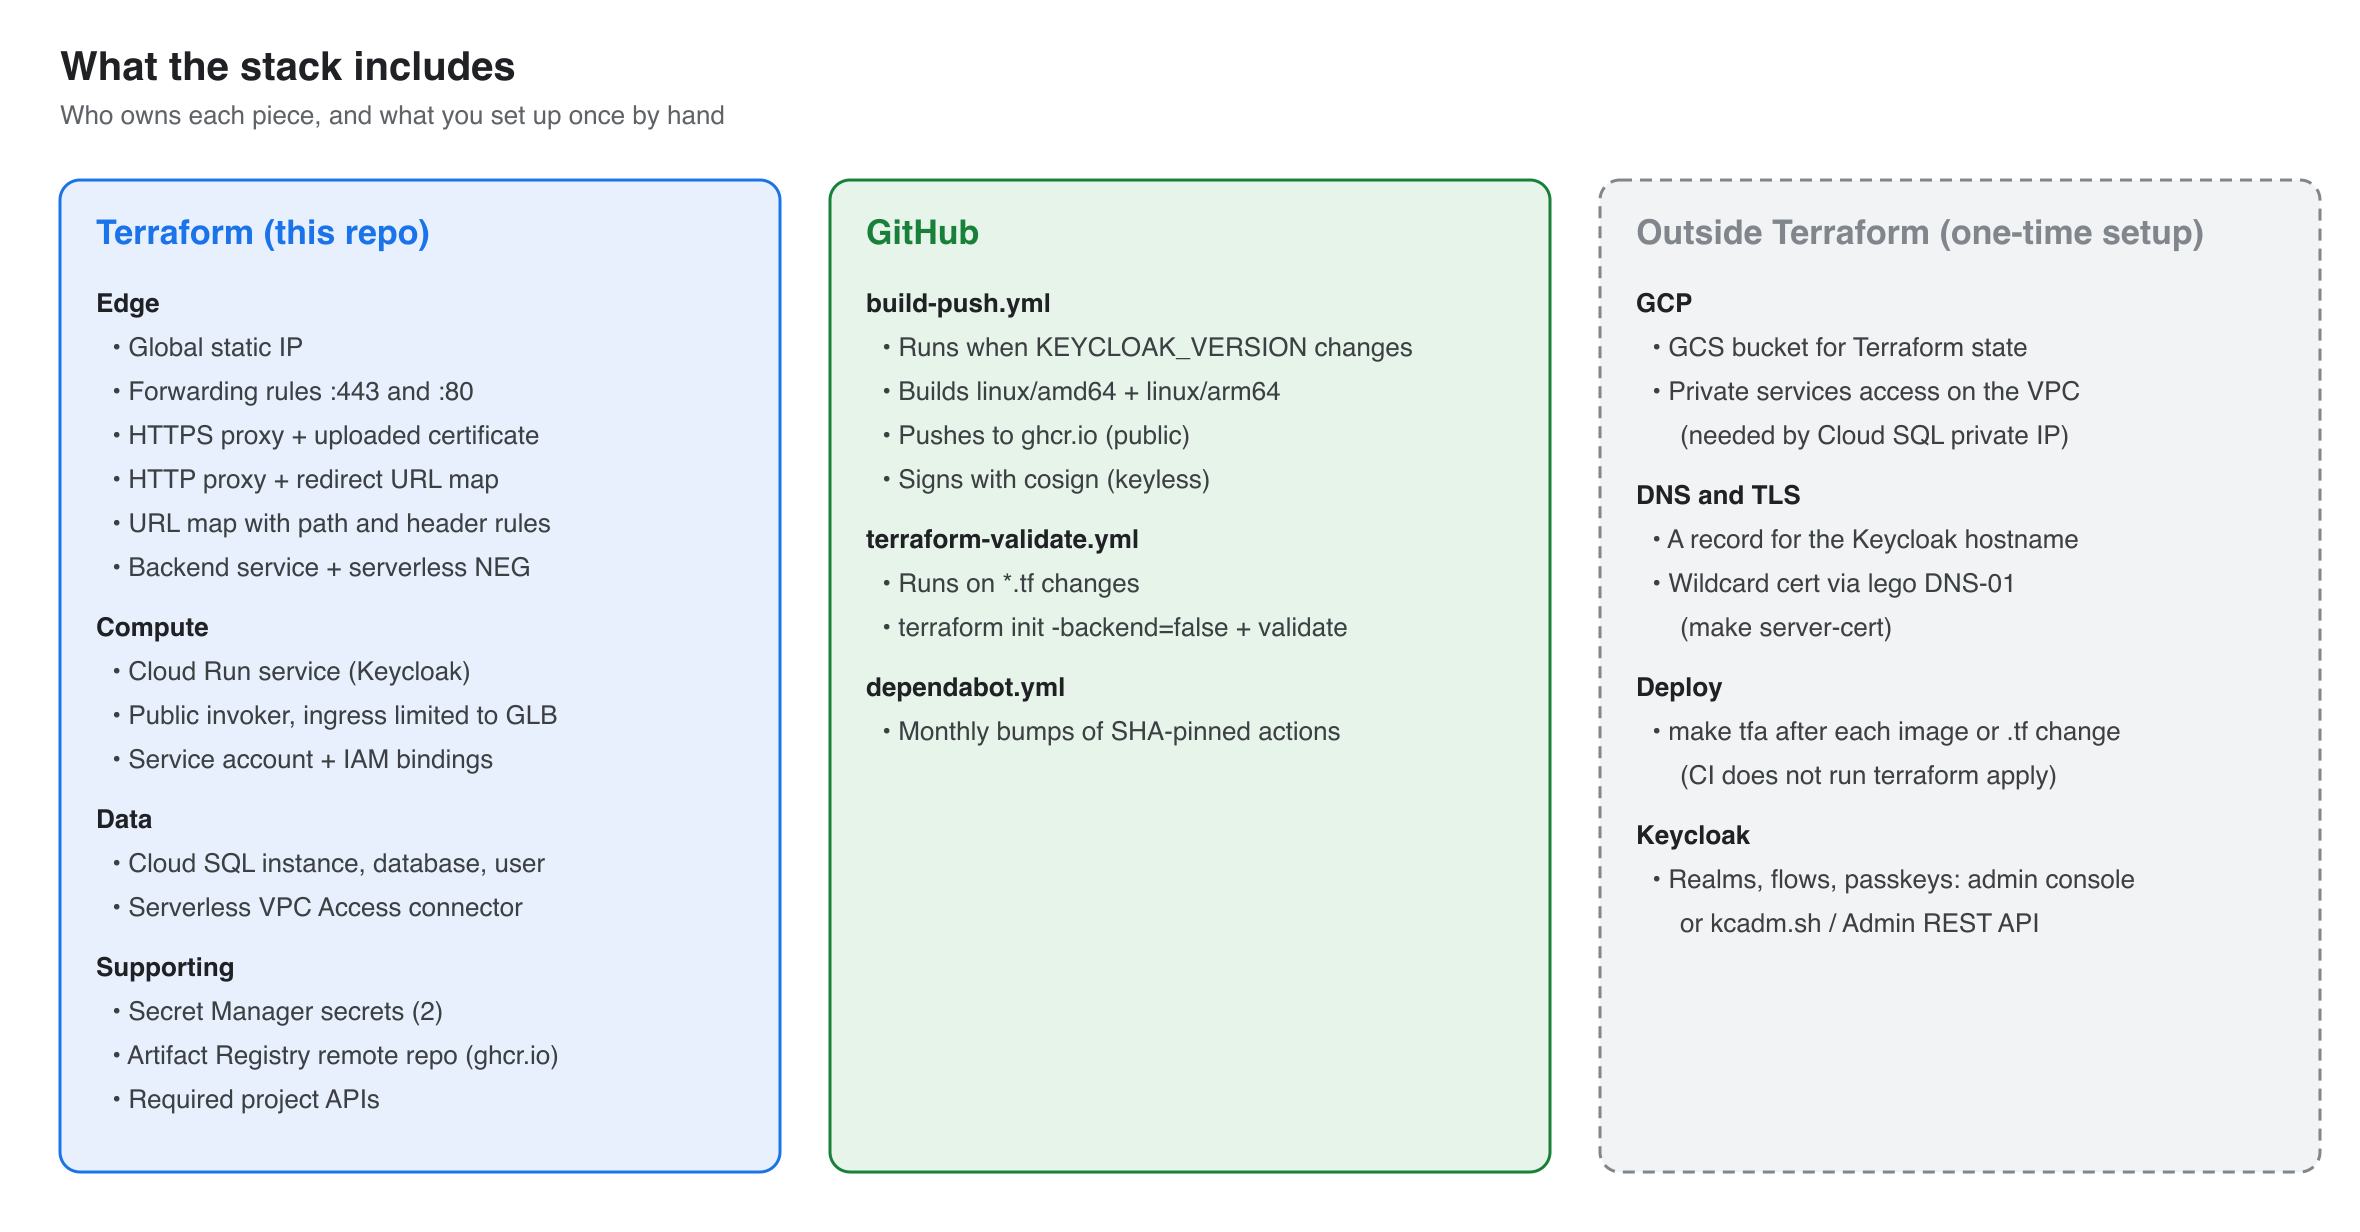
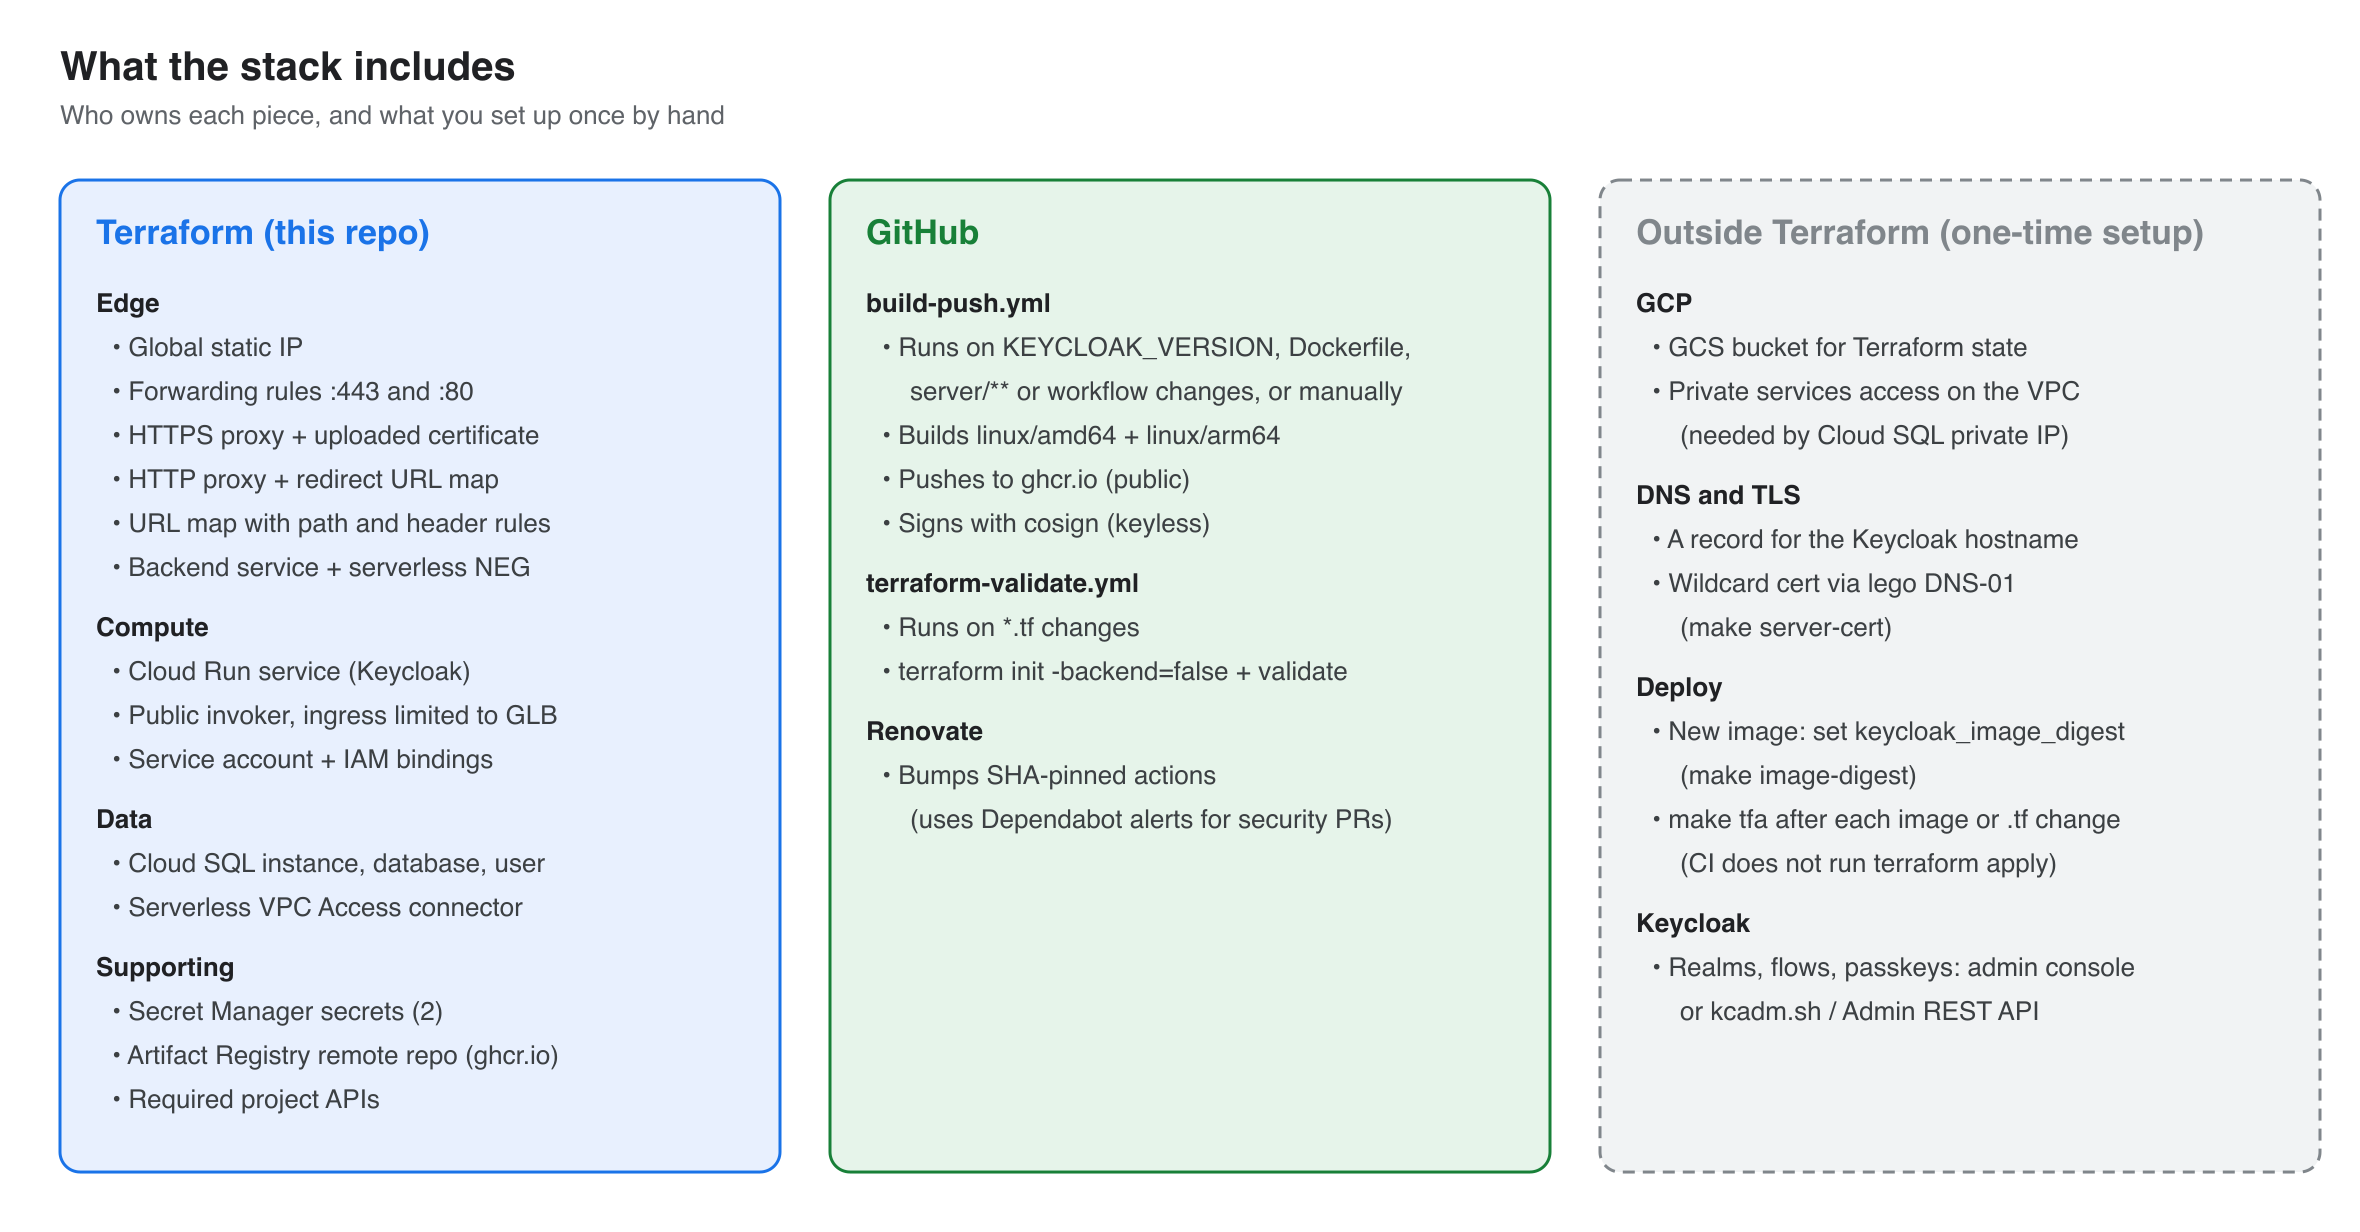
update diagrams for digest deploys, feature flags, build triggers and Renovate

Changed region(s): [[0.3712, 0.2776, 0.5877, 0.6786], [0.6805, 0.586, 0.897, 0.8328]]

diff --git a/scripts/diagrams.py b/scripts/diagrams.py
@@ -30,10 +30,11 @@ def box(x, y, w, h, style, title, sub=None, lines=None):
         for i, ln in enumerate(lines):
             o.append(f'<text x="{x + 14}" y="{y + 50 + i * 22}" font-size="13" fill="#3C4043" xml:space="preserve">{escape(ln)}</text>')
         return o
-    ty = y + h / 2 + (-4 if sub else 5)
+    subs = [sub] if isinstance(sub, str) else list(sub or [])
+    ty = y + h / 2 + (-4 - 8 * (len(subs) - 1) if subs else 5)
     o.append(f'<text x="{cx}" y="{ty}" font-size="15" font-weight="bold" fill="#202124" text-anchor="middle">{escape(title)}</text>')
-    if sub:
-        o.append(f'<text x="{cx}" y="{ty + 19}" font-size="12" fill="#5F6368" text-anchor="middle">{escape(sub)}</text>')
+    for i, s in enumerate(subs):
+        o.append(f'<text x="{cx}" y="{ty + 19 + i * 16}" font-size="12" fill="#5F6368" text-anchor="middle">{escape(s)}</text>')
     return o
 
 
@@ -76,7 +77,9 @@ def architecture():
     ])
     o += box(cx, 584, 205, 50, TF, "Backend service", "external managed")
     o += box(cx + 235, 584, 205, 50, TF, "Serverless NEG", "→ Cloud Run service")
-    o += box(cx, 674, cw, 70, TF, "Cloud Run: Keycloak 26", "1 instance · start --optimized · ingress: internal + load balancer")
+    o += box(cx, 674, cw, 70, TF, "Cloud Run: Keycloak 26", (
+        "1 instance · start --optimized · ingress: internal + load balancer",
+        "image pinned by digest · opt-in preview/experimental features"))
     o += box(cx, 784, 205, 56, TF, "Serverless VPC connector", "private ranges only")
     o += box(cx + 235, 784, 205, 56, TF, "Cloud SQL PostgreSQL 15", "private IP, no public IP")
 
@@ -118,17 +121,19 @@ def stack():
                             "Required project APIs"]),
         ]),
         (GH, "GitHub", [
-            ("build-push.yml", ["Runs when KEYCLOAK_VERSION changes", "Builds linux/amd64 + linux/arm64",
+            ("build-push.yml", ["Runs on KEYCLOAK_VERSION, Dockerfile,", "  server/** or workflow changes, or manually",
+                                "Builds linux/amd64 + linux/arm64",
                                 "Pushes to ghcr.io (public)", "Signs with cosign (keyless)"]),
             ("terraform-validate.yml", ["Runs on *.tf changes", "terraform init -backend=false + validate"]),
-            ("dependabot.yml", ["Monthly bumps of SHA-pinned actions"]),
+            ("Renovate", ["Bumps SHA-pinned actions", "  (uses Dependabot alerts for security PRs)"]),
         ]),
         (EXT, "Outside Terraform (one-time setup)", [
             ("GCP", ["GCS bucket for Terraform state", "Private services access on the VPC",
                      "  (needed by Cloud SQL private IP)"]),
             ("DNS and TLS", ["A record for the Keycloak hostname", "Wildcard cert via lego DNS-01",
                              "  (make server-cert)"]),
-            ("Deploy", ["make tfa after each image or .tf change", "  (CI does not run terraform apply)"]),
+            ("Deploy", ["New image: set keycloak_image_digest", "  (make image-digest)",
+                        "make tfa after each image or .tf change", "  (CI does not run terraform apply)"]),
             ("Keycloak", ["Realms, flows, passkeys: admin console", "  or kcadm.sh / Admin REST API"]),
         ]),
     ]

diff --git a/README.md b/README.md
@@ -28,7 +28,7 @@ Request path:
 | Owner | Resources |
 |---|---|
 | Terraform (`*.tf`) | Global static IP, forwarding rules (:443, :80), HTTPS and HTTP proxies, URL maps, uploaded SSL certificate, backend service, serverless NEG, Cloud Run service and invoker binding, service account and IAM, Cloud SQL instance/database/user, VPC Access connector, Secret Manager secrets, Artifact Registry remote repo (ghcr.io proxy), project APIs |
-| GitHub Actions | Multi-arch image build, push to GHCR, cosign signing (`build-push.yml`); `terraform validate` (`terraform-validate.yml`); Dependabot for action pins |
+| GitHub Actions | Multi-arch image build, push to GHCR, cosign signing (`build-push.yml`); `terraform validate` (`terraform-validate.yml`); Renovate for action pins (Dependabot alerts stay on for security PRs) |
 | You, once | GCS state bucket, private services access on the VPC, DNS A record, wildcard certificate, Keycloak realm configuration |
 
 ## Prerequisites
